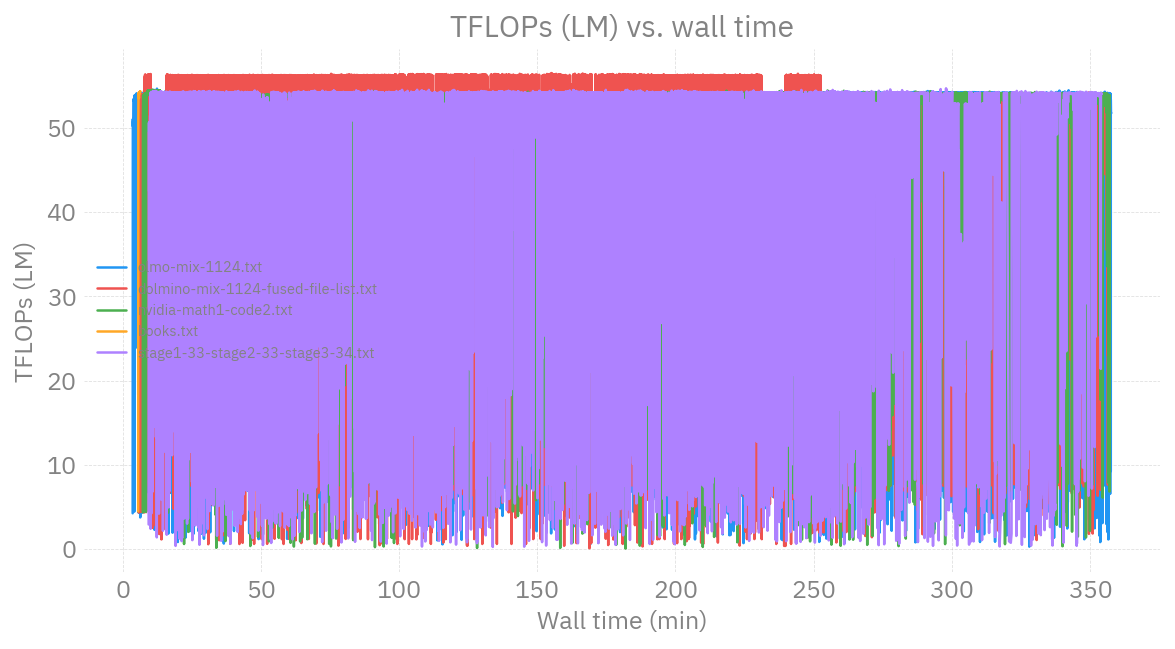
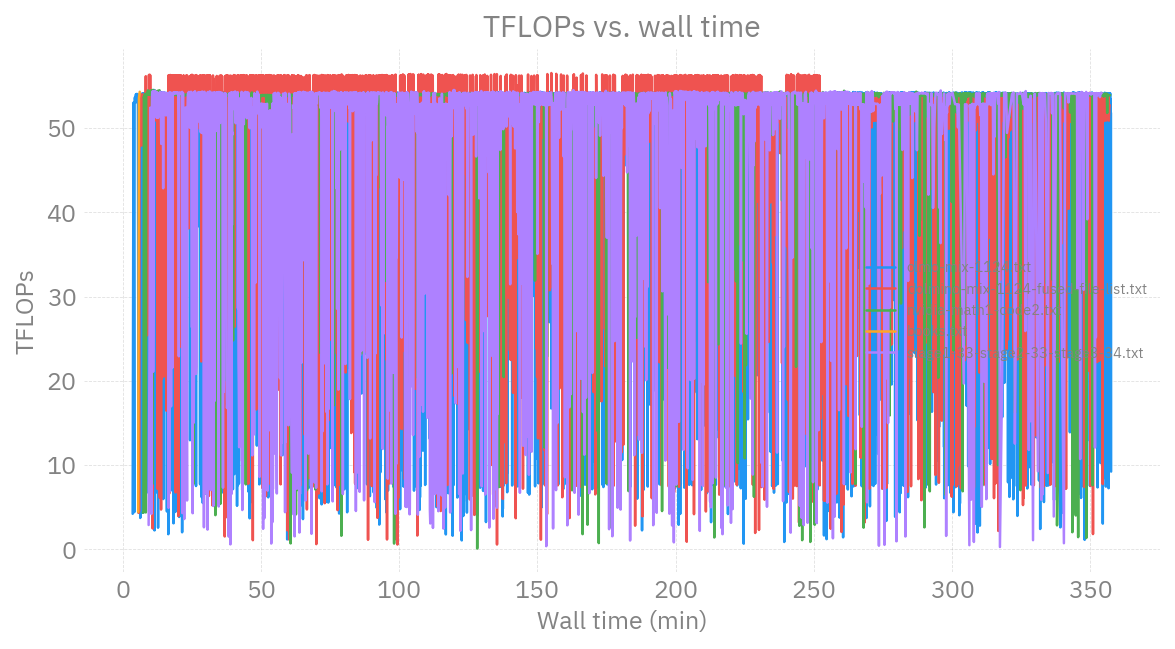
feat: Add iter-time zoom panel, downsample throughput plots
- New iter_time_vs_runtime_zoom panel: same data with y axis fixed to
  [0, 5] s so the steady-state iteration time is visible.
- Stride 5 [::N] downsampling on tokens_per_sec_vs_iter,
  tokens_per_gpu_per_sec_vs_iter, tflops_lm_vs_runtime to keep the
  PNGs legible (each had ~1M raw points).
- Drop "(LM)" from the TFLOPs chart title and y-label.
- Wire up new per-panel YLIMS and DOWNSAMPLE dicts at the top of the
  script so additional overrides can be added the same way.

diff --git a/ALCF/AuroraGPT/2B/scripts/generate_report.py b/ALCF/AuroraGPT/2B/scripts/generate_report.py
@@ -44,6 +44,18 @@ INSETS: dict[str, dict] = {
     },
 }
 
+# Per-panel fixed y-axis limits keyed by filename.
+YLIMS: dict[str, tuple[float, float]] = {
+    "iter_time_vs_runtime_zoom": (0, 5),
+}
+
+# Per-panel stride for `[::N]` downsampling, keyed by filename.
+DOWNSAMPLE: dict[str, int] = {
+    "tokens_per_sec_vs_iter": 5,
+    "tokens_per_gpu_per_sec_vs_iter": 5,
+    "tflops_lm_vs_runtime": 5,
+}
+
 # Same 22 filter clauses as the report.
 REPORT_FILTERS: dict[str, Any] = {
     "$and": [
@@ -99,6 +111,9 @@ PANELS = [
     ("iter_time_vs_runtime",         "Iteration time vs. wall time",
      "_runtime", "training/iteration_time",
      "Wall time (min)", "Iteration time (s)", False, False),
+    ("iter_time_vs_runtime_zoom",    "Iteration time vs. wall time (zoom)",
+     "_runtime", "training/iteration_time",
+     "Wall time (min)", "Iteration time (s)", False, False),
     ("lr_vs_iter_linear",            "Learning rate vs. iteration",
      "learning-rate/iteration", "optimizer/learning_rate",
      "Iteration", "Learning rate", False, False),
@@ -111,9 +126,9 @@ PANELS = [
     ("tokens_per_sec_vs_iter",       "Tokens/sec vs. iteration",
      "throughput/iteration", "throughput/tokens_per_sec",
      "Iteration", "Tokens / sec", False, False),
-    ("tflops_lm_vs_runtime",         "TFLOPs (LM) vs. wall time",
+    ("tflops_lm_vs_runtime",         "TFLOPs vs. wall time",
      "_runtime", "throughput/tflops-lm",
-     "Wall time (min)", "TFLOPs (LM)", False, False),
+     "Wall time (min)", "TFLOPs", False, False),
     ("consumed_tokens_vs_time",      "Consumed tokens vs. wall time",
      "_timestamp", "training/consumed_tokens",
      "Date", "Consumed tokens", False, False),
@@ -214,6 +229,7 @@ def plot_panel(
     fig, ax = plt.subplots(figsize=(8, 4.5))
     drew_any = False
     curves: list[tuple[np.ndarray, np.ndarray, str]] = []
+    stride = DOWNSAMPLE.get(fname, 1)
     for gkey, runs_in_group in runs_by_group.items():
         xs: list[np.ndarray] = []
         ys: list[np.ndarray] = []
@@ -236,6 +252,8 @@ def plot_panel(
         y = np.concatenate(ys)
         order = np.argsort(x)
         x, y = x[order], y[order]
+        if stride > 1:
+            x, y = x[::stride], y[::stride]
         if x_metric == "_runtime":
             x = x / 60.0
         if x_metric == "_timestamp":
@@ -256,6 +274,8 @@ def plot_panel(
         ax.set_xscale("log")
     if y_log:
         ax.set_yscale("log")
+    if fname in YLIMS:
+        ax.set_ylim(*YLIMS[fname])
     if len(runs_by_group) <= 8:
         ax.legend(loc="best", fontsize=7, frameon=False)
 

diff --git a/ALCF/AuroraGPT/2B/TRAINING_REPORT.md b/ALCF/AuroraGPT/2B/TRAINING_REPORT.md
@@ -71,6 +71,10 @@ so each line represents one training segment / data mixture.
 
 ![](assets/iter_time_vs_runtime.png)
 
+### Iteration time vs. wall time (zoomed to 0–5 s)
+
+![](assets/iter_time_vs_runtime_zoom.png)
+
 ### Tokens / sec vs. iteration
 
 ![](assets/tokens_per_sec_vs_iter.png)
@@ -79,7 +83,7 @@ so each line represents one training segment / data mixture.
 
 ![](assets/tokens_per_gpu_per_sec_vs_iter.png)
 
-### TFLOPs (LM) vs. wall time
+### TFLOPs vs. wall time
 
 ![](assets/tflops_lm_vs_runtime.png)
 
